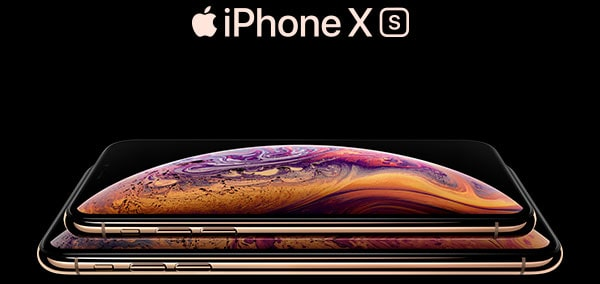
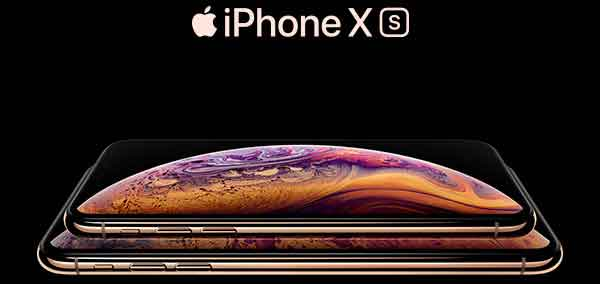
reduce images sizes

diff --git a/index.html b/index.html
@@ -537,7 +537,7 @@
                             </div>
                         </div>
                         <div class="section-gameplan__image-container">
-                            <img class="lazy" alt="giffgaff gameplan hand" class="section-gameplan__image" data-src="FCR_banner_hand-min.png" />
+                            <img class="lazy" alt="giffgaff gameplan hand" class="section-gameplan__image" data-src="FCR_banner_hand-min.jpg" />
                         </div>
                         </div>
                     </div>
@@ -889,7 +889,7 @@
                                     Join our community </h2>
                                 <p class="big sessioncamhidetext">Join other lovely members online to give or get help,
                                     share your ideas to improve giffgaff or just say hi and see for yourself.</p>
-                                <img class="lazy" height="250" width="378" alt="Join our community" data-src="community_pink@2x-min.png">
+                                <img class="lazy" height="250" width="378" alt="Join our community" data-src="community_pink@2x-min.jpg">
                                 <a href="//community.giffgaff.com/" class="btn btn-primary btn-x-large"
                                     data-section="community-and-sr-section section light-gray">
                                     Get involved </a>
